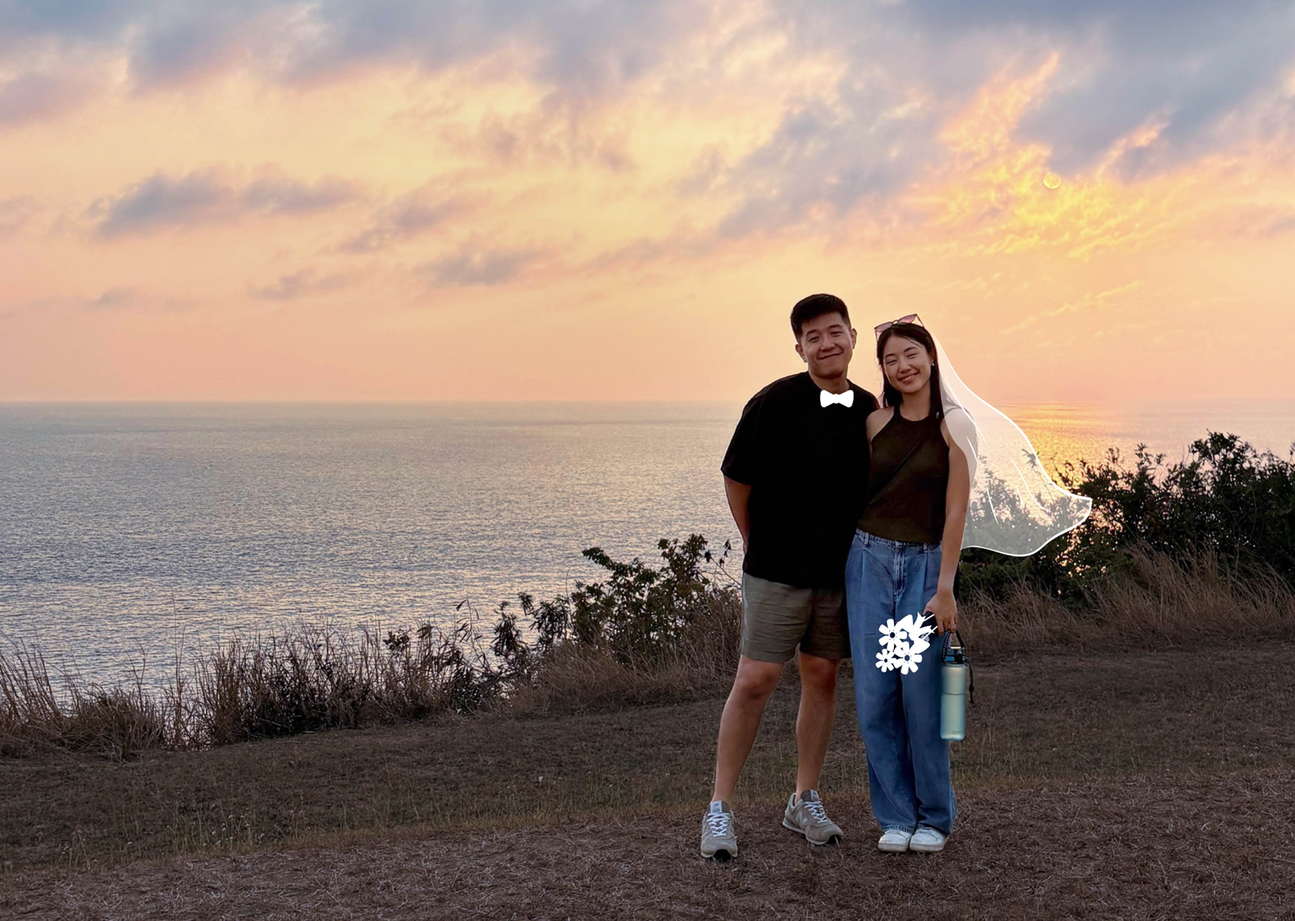
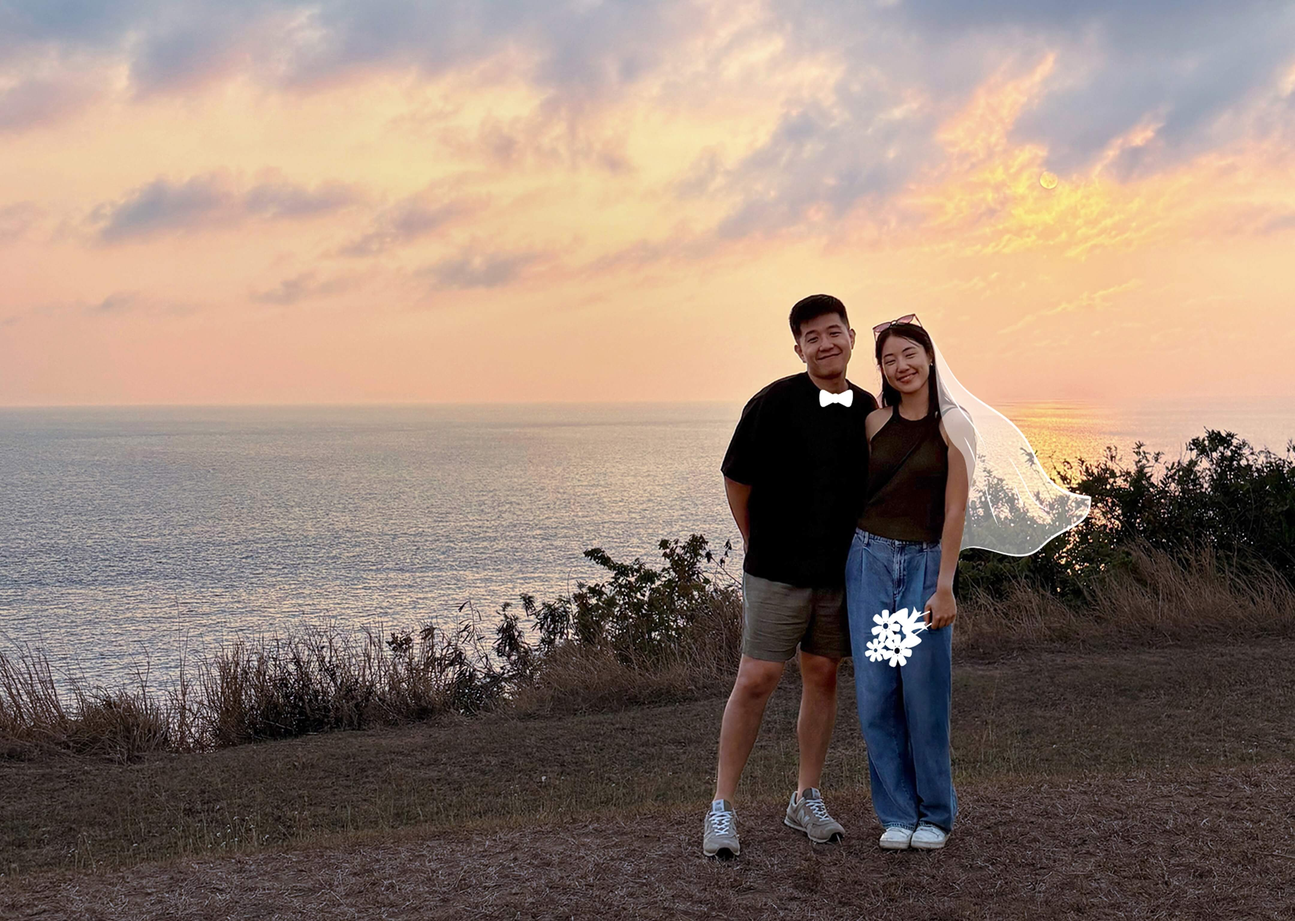
updated landing photo, kenting photo, added Others

Changed region(s): [[0.0, 0.3125, 1.0, 1.0], [0.6562, 0.5625, 0.6875, 0.5938], [0.0, 0.4375, 0.0312, 0.4688]]

diff --git a/index.html b/index.html
@@ -952,7 +952,7 @@
     #kenting { background: var(--bg-blue); min-height: 100svh; }
 
     .kenting__bg {
-      background-image: url('schedule.png');
+      background-image: url('kenting.jpg');
       background-position: center;
     }
 
@@ -1515,7 +1515,7 @@
               <span>Nut allergy</span>
             </label>
             <label class="rsvp__diet-row">
-              <input class="rsvp__checkbox" type="checkbox" name="dietary" value="others">
+              <input class="rsvp__checkbox" type="checkbox" name="dietary" value="others" id="dietOthers">
               <span>Others</span>
             </label>
             <label class="rsvp__diet-row">
@@ -1523,6 +1523,18 @@
               <span>None</span>
             </label>
           </div>
+          <div class="rsvp__guests-wrap" id="dietOthersWrap">
+            <div class="rsvp__guests-card">
+              <div class="rsvp__guests">
+                <div class="rsvp__guest-row">
+                  <input class="rsvp__guest-input" type="text" id="dietOthersInput"
+                        name="dietary_other" placeholder="Please specify" autocomplete="off">
+                </div>
+              </div>
+            </div>
+          </div>
+
+
         </div>
 
         <div class="rsvp__closing">
@@ -1800,6 +1812,13 @@
       guestsWrap.classList.toggle('open', bringOthers.checked);
     });
 
+    const dietOthers    = document.getElementById('dietOthers');
+    const dietOthersWrap = document.getElementById('dietOthersWrap');
+
+    dietOthers.addEventListener('change', () => {
+      dietOthersWrap.classList.toggle('open', dietOthers.checked);
+    });
+
     /* Add / remove guest rows */
     document.getElementById('addGuestBtn').addEventListener('click', () => {
       const idx = guestList.children.length + 1;
@@ -1847,6 +1866,7 @@
             flying_from: document.getElementById('rsvpOrigin').value.trim() || null,
             guests:      guests.length ? guests : null,
             dietary:     dietary.length ? dietary : null,
+            dietary_other: document.getElementById('dietOthersInput').value.trim() || null,  // newly added
           }),
         });
 
@@ -1866,6 +1886,7 @@ try {
       flying_from: document.getElementById('rsvpOrigin').value.trim() || null,
       guests:      guests.length ? guests : null,
       dietary:     dietary.length ? dietary : null,
+      dietary_other: document.getElementById('dietOthersInput').value.trim() || null,  // newly added
       submitted_at: new Date().toISOString(),
     }),
   });
